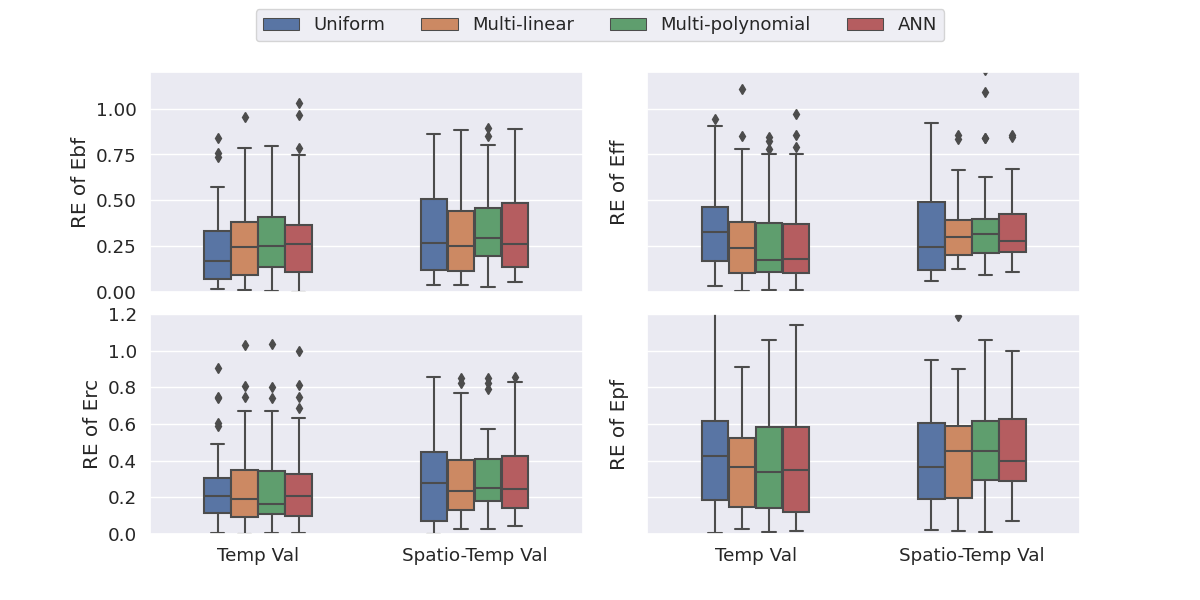
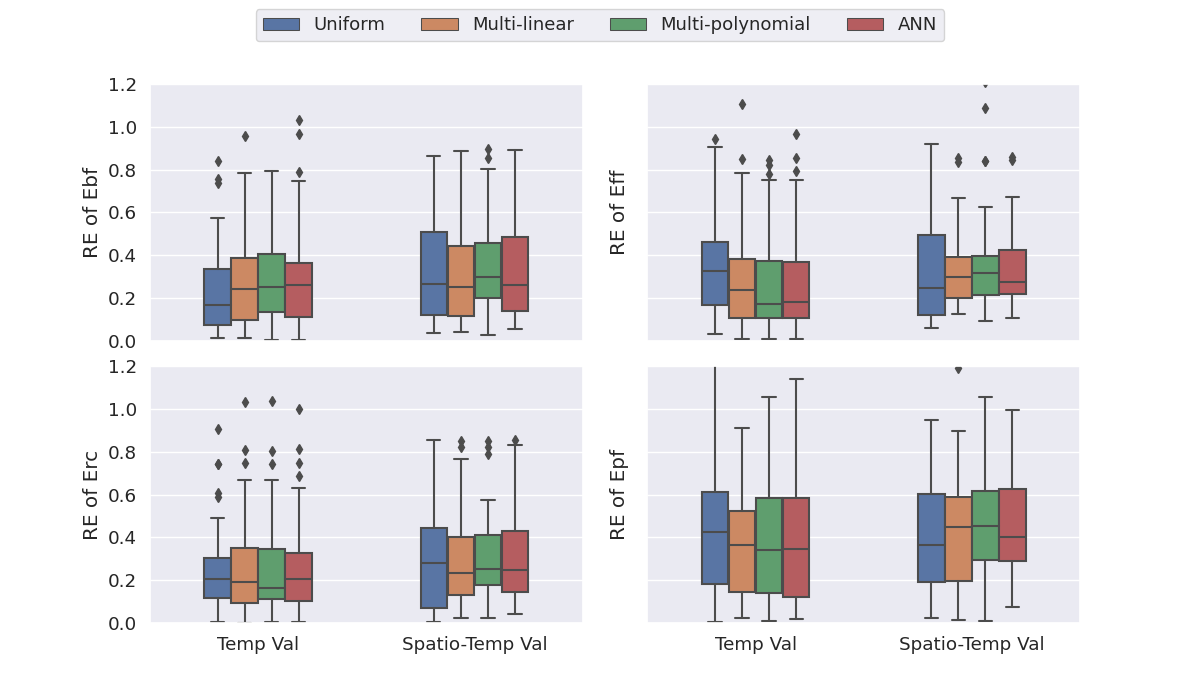
FIX axis label

diff --git a/run_result-analysis.py b/run_result-analysis.py
@@ -530,7 +530,7 @@ def signatures_val(
     start_time="2016-08-01 00:00",
     end_time="2018-08-01 00:00",
     figname="signatures_val",
-    figsize=(12, 6),
+    figsize=(12, 7),
 ):
     print("</> Plotting relative error of signatures...")
 
@@ -606,6 +606,8 @@ def signatures_val(
 
             # Set y-axis limits
             axes[i, j].set_ylim([0, 1.2])
+
+            axes[i, j].set_yticks([0, 0.2, 0.4, 0.6, 0.8, 1, 1.2])
 
             handles, labels = axes[
                 i, j
